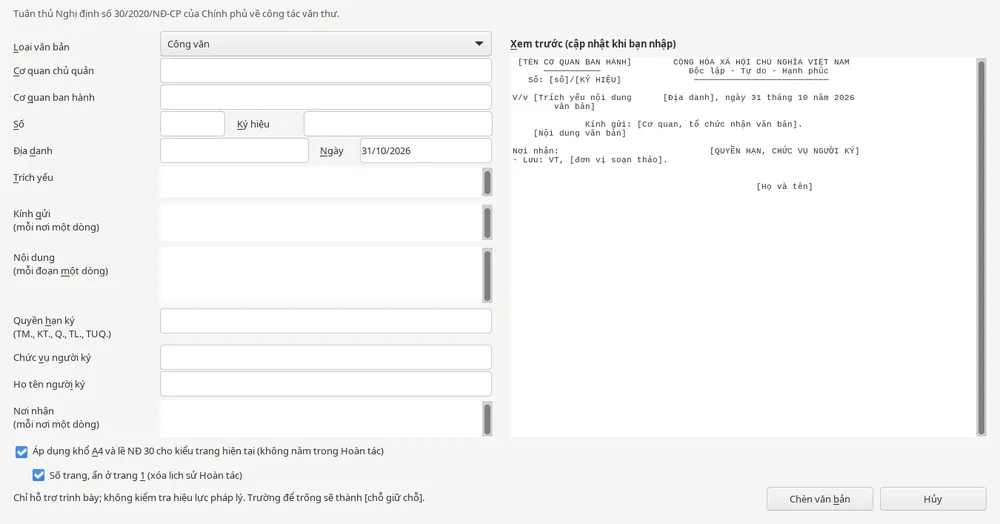
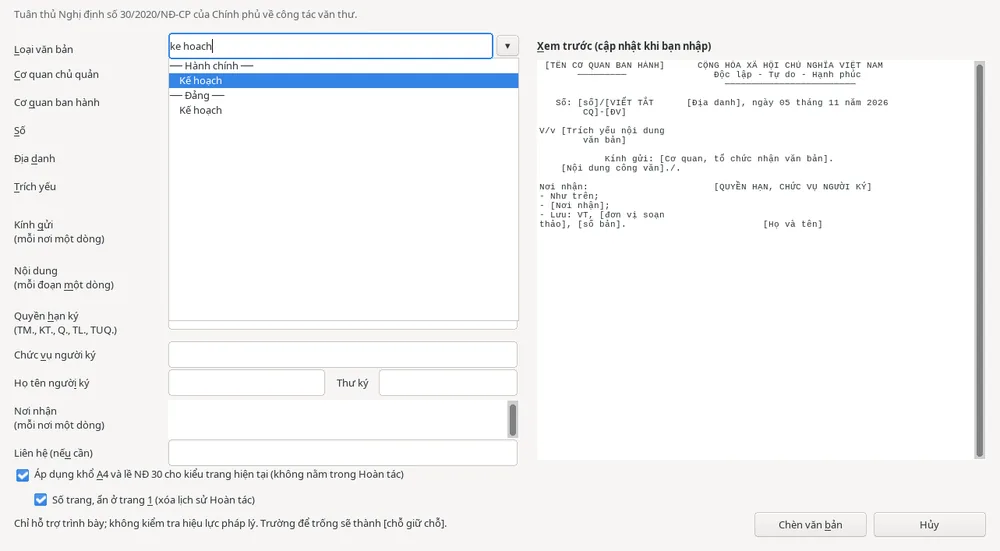
fix(website): sync the guide with the templates, shortcuts and macro changes

diff --git a/website/office.hasontech.vn/huong-dan/phim-tat/index.html b/website/office.hasontech.vn/huong-dan/phim-tat/index.html
@@ -55,7 +55,7 @@
    "description": "HST Office dùng phím tắt giống Microsoft Word, Excel và PowerPoint.",
    "inLanguage": "vi",
    "url": "https://office.hasontech.vn/huong-dan/phim-tat/",
-   "dateModified": "2026-11-04",
+   "dateModified": "2026-11-05",
    "about": {
     "@id": "https://office.hasontech.vn/#software"
    },
@@ -142,8 +142,8 @@
 <p class="lead">HST Office dùng phím tắt giống Microsoft Word, Excel và PowerPoint.</p>
 <div class="table-wrap"><table><caption>Dùng chung</caption><thead><tr><th scope="col">Thao tác</th><th scope="col">Phím tắt</th></tr></thead><tbody><tr><td>Tạo mới / Mở / Lưu</td><td><span class="keys"><kbd>Ctrl</kbd>+<kbd>N</kbd></span> · <span class="keys"><kbd>Ctrl</kbd>+<kbd>O</kbd></span> · <span class="keys"><kbd>Ctrl</kbd>+<kbd>S</kbd></span></td></tr><tr><td>Lưu thành (đổi tên, đổi định dạng)</td><td><span class="keys"><kbd>F12</kbd></span> · <span class="keys"><kbd>Ctrl</kbd>+<kbd>Shift</kbd>+<kbd>S</kbd></span></td></tr><tr><td>In</td><td><span class="keys"><kbd>Ctrl</kbd>+<kbd>P</kbd></span></td></tr><tr><td>Hoàn tác / Làm lại</td><td><span class="keys"><kbd>Ctrl</kbd>+<kbd>Z</kbd></span> · <span class="keys"><kbd>Ctrl</kbd>+<kbd>Y</kbd></span></td></tr><tr><td>Sao chép / Cắt / Dán</td><td><span class="keys"><kbd>Ctrl</kbd>+<kbd>C</kbd></span> · <span class="keys"><kbd>Ctrl</kbd>+<kbd>X</kbd></span> · <span class="keys"><kbd>Ctrl</kbd>+<kbd>V</kbd></span></td></tr><tr><td>Tìm / Tìm và thay thế</td><td><span class="keys"><kbd>Ctrl</kbd>+<kbd>F</kbd></span> · <span class="keys"><kbd>Ctrl</kbd>+<kbd>H</kbd></span></td></tr><tr><td>Kiểm tra chính tả</td><td><span class="keys"><kbd>F7</kbd></span></td></tr><tr><td><a href="/huong-dan/giao-dien/#tim-tinh-nang">Tìm tính năng</a> (gõ tên lệnh, không dấu cũng được)</td><td><span class="keys"><kbd>Shift</kbd>+<kbd>Esc</kbd></span></td></tr><tr><td><a href="/huong-dan/macro-vba/">Macro VBA</a>: mở trình soạn macro (HST Writer, HST Sheets)</td><td><span class="keys"><kbd>Alt</kbd>+<kbd>F11</kbd></span></td></tr><tr><td>Hộp thoại chạy, sửa, gán macro (HST Writer, HST Sheets)</td><td><span class="keys"><kbd>Alt</kbd>+<kbd>F8</kbd></span></td></tr><tr><td>Chuyển sang thẻ tài liệu sau / trước</td><td><span class="keys"><kbd>Ctrl</kbd>+<kbd>Alt</kbd>+<kbd>.</kbd></span> · <span class="keys"><kbd>Ctrl</kbd>+<kbd>Alt</kbd>+<kbd>,</kbd></span></td></tr><tr><td>Đóng thẻ tài liệu đang mở</td><td><span class="keys"><kbd>Ctrl</kbd>+<kbd>W</kbd></span></td></tr><tr><td>Mở hướng dẫn này</td><td><span class="keys"><kbd>F1</kbd></span></td></tr></tbody></table></div>
 <h2>HST Writer (giống Word)</h2>
-<div class="table-wrap"><table><caption>Phím tắt trong HST Writer</caption><thead><tr><th scope="col">Thao tác</th><th scope="col">Phím tắt</th></tr></thead><tbody><tr><td>Đậm / Nghiêng / Gạch dưới</td><td><span class="keys"><kbd>Ctrl</kbd>+<kbd>B</kbd></span> · <span class="keys"><kbd>Ctrl</kbd>+<kbd>I</kbd></span> · <span class="keys"><kbd>Ctrl</kbd>+<kbd>U</kbd></span></td></tr><tr><td>Gạch dưới kép</td><td><span class="keys"><kbd>Ctrl</kbd>+<kbd>Shift</kbd>+<kbd>D</kbd></span></td></tr><tr><td>Căn giữa / trái / phải / đều</td><td><span class="keys"><kbd>Ctrl</kbd>+<kbd>E</kbd></span> · <span class="keys"><kbd>Ctrl</kbd>+<kbd>L</kbd></span> · <span class="keys"><kbd>Ctrl</kbd>+<kbd>R</kbd></span> · <span class="keys"><kbd>Ctrl</kbd>+<kbd>J</kbd></span></td></tr><tr><td>Hộp thoại Ký tự (phông chữ)</td><td><span class="keys"><kbd>Ctrl</kbd>+<kbd>D</kbd></span></td></tr><tr><td>Tăng / giảm cỡ chữ</td><td><span class="keys"><kbd>Ctrl</kbd>+<kbd>Shift</kbd>+<kbd>&gt;</kbd></span> · <span class="keys"><kbd>Ctrl</kbd>+<kbd>Shift</kbd>+<kbd>&lt;</kbd></span> · <span class="keys"><kbd>Ctrl</kbd>+<kbd>]</kbd></span> · <span class="keys"><kbd>Ctrl</kbd>+<kbd>[</kbd></span></td></tr><tr><td>Chỉ số trên / chỉ số dưới</td><td><span class="keys"><kbd>Ctrl</kbd>+<kbd>Shift</kbd>+<kbd>=</kbd></span> · <span class="keys"><kbd>Ctrl</kbd>+<kbd>=</kbd></span></td></tr><tr><td>Giãn dòng đơn / đôi / 1,5</td><td><span class="keys"><kbd>Ctrl</kbd>+<kbd>1</kbd></span> · <span class="keys"><kbd>Ctrl</kbd>+<kbd>2</kbd></span> · <span class="keys"><kbd>Ctrl</kbd>+<kbd>5</kbd></span></td></tr><tr><td>Kiểu Tiêu đề 1 / 2 / 3</td><td><span class="keys"><kbd>Ctrl</kbd>+<kbd>Alt</kbd>+<kbd>1</kbd></span> · <span class="keys"><kbd>Ctrl</kbd>+<kbd>Alt</kbd>+<kbd>2</kbd></span> · <span class="keys"><kbd>Ctrl</kbd>+<kbd>Alt</kbd>+<kbd>3</kbd></span></td></tr><tr><td>Kiểu đoạn mặc định (Normal)</td><td><span class="keys"><kbd>Ctrl</kbd>+<kbd>Shift</kbd>+<kbd>N</kbd></span></td></tr><tr><td>Danh sách dấu đầu dòng</td><td><span class="keys"><kbd>Ctrl</kbd>+<kbd>Shift</kbd>+<kbd>L</kbd></span></td></tr><tr><td>Tăng / giảm thụt lề</td><td><span class="keys"><kbd>Ctrl</kbd>+<kbd>M</kbd></span> · <span class="keys"><kbd>Ctrl</kbd>+<kbd>Shift</kbd>+<kbd>M</kbd></span></td></tr><tr><td>Thụt lề treo</td><td><span class="keys"><kbd>Ctrl</kbd>+<kbd>T</kbd></span></td></tr><tr><td>Xóa định dạng trực tiếp</td><td><span class="keys"><kbd>Ctrl</kbd>+<kbd>Space</kbd></span></td></tr><tr><td>Lặp lại thao tác vừa làm</td><td><span class="keys"><kbd>F4</kbd></span></td></tr><tr><td>Đổi chữ hoa / thường</td><td><span class="keys"><kbd>Shift</kbd>+<kbd>F3</kbd></span></td></tr><tr><td>Dán văn bản không định dạng</td><td><span class="keys"><kbd>Ctrl</kbd>+<kbd>Shift</kbd>+<kbd>V</kbd></span></td></tr><tr><td>Dán đặc biệt</td><td><span class="keys"><kbd>Ctrl</kbd>+<kbd>Alt</kbd>+<kbd>V</kbd></span></td></tr><tr><td>Chèn siêu liên kết</td><td><span class="keys"><kbd>Ctrl</kbd>+<kbd>K</kbd></span></td></tr><tr><td>Đi tới trang</td><td><span class="keys"><kbd>Ctrl</kbd>+<kbd>G</kbd></span></td></tr><tr><td>Ngắt trang</td><td><span class="keys"><kbd>Ctrl</kbd>+<kbd>Enter</kbd></span></td></tr><tr><td>Chèn trường ngày / giờ</td><td><span class="keys"><kbd>Alt</kbd>+<kbd>Shift</kbd>+<kbd>D</kbd></span> · <span class="keys"><kbd>Alt</kbd>+<kbd>Shift</kbd>+<kbd>T</kbd></span></td></tr></tbody></table></div>
-<div class="note">Chưa có: sao chép / dán riêng định dạng và <span class="keys"><kbd>Ctrl</kbd>+<kbd>Q</kbd></span> xóa định dạng đoạn. Hãy dùng <span class="menu">Sao chép định dạng</span> ở thẻ <span class="menu">Trang đầu</span>. Trong HST Office, <span class="keys"><kbd>Ctrl</kbd>+<kbd>Q</kbd></span> là thoát.</div>
+<div class="table-wrap"><table><caption>Phím tắt trong HST Writer</caption><thead><tr><th scope="col">Thao tác</th><th scope="col">Phím tắt</th></tr></thead><tbody><tr><td>Đậm / Nghiêng / Gạch dưới</td><td><span class="keys"><kbd>Ctrl</kbd>+<kbd>B</kbd></span> · <span class="keys"><kbd>Ctrl</kbd>+<kbd>I</kbd></span> · <span class="keys"><kbd>Ctrl</kbd>+<kbd>U</kbd></span></td></tr><tr><td>Gạch dưới kép</td><td><span class="keys"><kbd>Ctrl</kbd>+<kbd>Shift</kbd>+<kbd>D</kbd></span></td></tr><tr><td>Căn giữa / trái / phải / đều</td><td><span class="keys"><kbd>Ctrl</kbd>+<kbd>E</kbd></span> · <span class="keys"><kbd>Ctrl</kbd>+<kbd>L</kbd></span> · <span class="keys"><kbd>Ctrl</kbd>+<kbd>R</kbd></span> · <span class="keys"><kbd>Ctrl</kbd>+<kbd>J</kbd></span></td></tr><tr><td>Hộp thoại Ký tự (phông chữ)</td><td><span class="keys"><kbd>Ctrl</kbd>+<kbd>D</kbd></span></td></tr><tr><td>Tăng / giảm cỡ chữ</td><td><span class="keys"><kbd>Ctrl</kbd>+<kbd>Shift</kbd>+<kbd>&gt;</kbd></span> · <span class="keys"><kbd>Ctrl</kbd>+<kbd>Shift</kbd>+<kbd>&lt;</kbd></span> · <span class="keys"><kbd>Ctrl</kbd>+<kbd>]</kbd></span> · <span class="keys"><kbd>Ctrl</kbd>+<kbd>[</kbd></span></td></tr><tr><td>Chỉ số trên / chỉ số dưới</td><td><span class="keys"><kbd>Ctrl</kbd>+<kbd>Shift</kbd>+<kbd>=</kbd></span> · <span class="keys"><kbd>Ctrl</kbd>+<kbd>=</kbd></span></td></tr><tr><td>Giãn dòng đơn / đôi / 1,5</td><td><span class="keys"><kbd>Ctrl</kbd>+<kbd>1</kbd></span> · <span class="keys"><kbd>Ctrl</kbd>+<kbd>2</kbd></span> · <span class="keys"><kbd>Ctrl</kbd>+<kbd>5</kbd></span></td></tr><tr><td>Kiểu Tiêu đề 1 / 2 / 3</td><td><span class="keys"><kbd>Ctrl</kbd>+<kbd>Alt</kbd>+<kbd>1</kbd></span> · <span class="keys"><kbd>Ctrl</kbd>+<kbd>Alt</kbd>+<kbd>2</kbd></span> · <span class="keys"><kbd>Ctrl</kbd>+<kbd>Alt</kbd>+<kbd>3</kbd></span></td></tr><tr><td>Kiểu đoạn mặc định (Normal)</td><td><span class="keys"><kbd>Ctrl</kbd>+<kbd>Shift</kbd>+<kbd>N</kbd></span></td></tr><tr><td>Danh sách dấu đầu dòng</td><td><span class="keys"><kbd>Ctrl</kbd>+<kbd>Shift</kbd>+<kbd>L</kbd></span></td></tr><tr><td>Tăng / giảm thụt lề</td><td><span class="keys"><kbd>Ctrl</kbd>+<kbd>M</kbd></span> · <span class="keys"><kbd>Ctrl</kbd>+<kbd>Shift</kbd>+<kbd>M</kbd></span></td></tr><tr><td>Thụt lề treo</td><td><span class="keys"><kbd>Ctrl</kbd>+<kbd>T</kbd></span></td></tr><tr><td>Xóa định dạng trực tiếp</td><td><span class="keys"><kbd>Ctrl</kbd>+<kbd>Space</kbd></span></td></tr><tr><td>Lặp lại thao tác vừa làm</td><td><span class="keys"><kbd>F4</kbd></span></td></tr><tr><td>Đổi chữ hoa / thường</td><td><span class="keys"><kbd>Shift</kbd>+<kbd>F3</kbd></span></td></tr><tr><td>Dán văn bản không định dạng</td><td><span class="keys"><kbd>Ctrl</kbd>+<kbd>Shift</kbd>+<kbd>V</kbd></span></td></tr><tr><td>Dán đặc biệt</td><td><span class="keys"><kbd>Ctrl</kbd>+<kbd>Alt</kbd>+<kbd>Shift</kbd>+<kbd>V</kbd></span></td></tr><tr><td>Sao chép / dán định dạng (ký tự và đoạn)</td><td><span class="keys"><kbd>Ctrl</kbd>+<kbd>Alt</kbd>+<kbd>C</kbd></span> · <span class="keys"><kbd>Ctrl</kbd>+<kbd>Alt</kbd>+<kbd>V</kbd></span></td></tr><tr><td>Xóa định dạng đoạn (giữ định dạng ký tự)</td><td><span class="keys"><kbd>Ctrl</kbd>+<kbd>Q</kbd></span></td></tr><tr><td>Chèn chú thích</td><td><span class="keys"><kbd>Ctrl</kbd>+<kbd>Alt</kbd>+<kbd>M</kbd></span></td></tr><tr><td>Chèn siêu liên kết</td><td><span class="keys"><kbd>Ctrl</kbd>+<kbd>K</kbd></span></td></tr><tr><td>Đi tới trang</td><td><span class="keys"><kbd>Ctrl</kbd>+<kbd>G</kbd></span></td></tr><tr><td>Ngắt trang</td><td><span class="keys"><kbd>Ctrl</kbd>+<kbd>Enter</kbd></span></td></tr><tr><td>Chèn trường ngày / giờ</td><td><span class="keys"><kbd>Alt</kbd>+<kbd>Shift</kbd>+<kbd>D</kbd></span> · <span class="keys"><kbd>Alt</kbd>+<kbd>Shift</kbd>+<kbd>T</kbd></span></td></tr></tbody></table></div>
+<div class="note">Trong HST Writer, <span class="keys"><kbd>Ctrl</kbd>+<kbd>Q</kbd></span> xóa định dạng đoạn như Word nên không còn thoát ứng dụng: hãy dùng <span class="keys"><kbd>Alt</kbd>+<kbd>F4</kbd></span> hoặc <span class="menu">Tập tin → Thoát</span>. Trong HST Sheets và HST Slides, <span class="keys"><kbd>Ctrl</kbd>+<kbd>Q</kbd></span> vẫn là thoát. Trên macOS: <span class="keys"><kbd>Cmd</kbd>+<kbd>Q</kbd></span> luôn là thoát; sao chép / dán định dạng là <span class="keys"><kbd>Cmd</kbd>+<kbd>Option</kbd>+<kbd>C</kbd></span> / <span class="keys"><kbd>Cmd</kbd>+<kbd>Option</kbd>+<kbd>V</kbd></span>, chèn chú thích <span class="keys"><kbd>Cmd</kbd>+<kbd>Option</kbd>+<kbd>A</kbd></span>, dán đặc biệt <span class="keys"><kbd>Cmd</kbd>+<kbd>Control</kbd>+<kbd>V</kbd></span>.</div>
 <h2>HST Sheets (giống Excel)</h2>
 <div class="table-wrap"><table><caption>Phím tắt trong HST Sheets</caption><thead><tr><th scope="col">Thao tác</th><th scope="col">Phím tắt</th></tr></thead><tbody><tr><td>Sửa ô đang chọn</td><td><span class="keys"><kbd>F2</kbd></span></td></tr><tr><td>Đổi tham chiếu tuyệt đối / tương đối khi sửa công thức</td><td><span class="keys"><kbd>F4</kbd></span></td></tr><tr><td>Xuống dòng trong ô</td><td><span class="keys"><kbd>Alt</kbd>+<kbd>Enter</kbd></span></td></tr><tr><td>Điền nội dung vừa nhập vào các ô đã chọn</td><td><span class="keys"><kbd>Ctrl</kbd>+<kbd>Enter</kbd></span></td></tr><tr><td>Tính tổng tự động</td><td><span class="keys"><kbd>Alt</kbd>+<kbd>=</kbd></span></td></tr><tr><td>Định dạng ô</td><td><span class="keys"><kbd>Ctrl</kbd>+<kbd>1</kbd></span></td></tr><tr><td>Ngày hiện tại / giờ hiện tại</td><td><span class="keys"><kbd>Ctrl</kbd>+<kbd>;</kbd></span> · <span class="keys"><kbd>Ctrl</kbd>+<kbd>Shift</kbd>+<kbd>;</kbd></span></td></tr><tr><td>Bật/tắt lọc</td><td><span class="keys"><kbd>Ctrl</kbd>+<kbd>Shift</kbd>+<kbd>L</kbd></span></td></tr><tr><td>Tạo bảng</td><td><span class="keys"><kbd>Ctrl</kbd>+<kbd>T</kbd></span></td></tr><tr><td>Điền xuống / điền sang phải</td><td><span class="keys"><kbd>Ctrl</kbd>+<kbd>D</kbd></span> · <span class="keys"><kbd>Ctrl</kbd>+<kbd>R</kbd></span></td></tr><tr><td>Định dạng Số / Tiền tệ / Phần trăm</td><td><span class="keys"><kbd>Ctrl</kbd>+<kbd>Shift</kbd>+<kbd>!</kbd></span> · <span class="keys"><kbd>Ctrl</kbd>+<kbd>Shift</kbd>+<kbd>$</kbd></span> · <span class="keys"><kbd>Ctrl</kbd>+<kbd>Shift</kbd>+<kbd>%</kbd></span></td></tr><tr><td>Định dạng Ngày / Giờ / Khoa học / Chung</td><td><span class="keys"><kbd>Ctrl</kbd>+<kbd>Shift</kbd>+<kbd>#</kbd></span> · <span class="keys"><kbd>Ctrl</kbd>+<kbd>Shift</kbd>+<kbd>@</kbd></span> · <span class="keys"><kbd>Ctrl</kbd>+<kbd>Shift</kbd>+<kbd>^</kbd></span> · <span class="keys"><kbd>Ctrl</kbd>+<kbd>Shift</kbd>+<kbd>~</kbd></span></td></tr><tr><td>Chọn cả cột / cả hàng</td><td><span class="keys"><kbd>Ctrl</kbd>+<kbd>Space</kbd></span> · <span class="keys"><kbd>Shift</kbd>+<kbd>Space</kbd></span></td></tr><tr><td>Xóa ô / chèn ô</td><td><span class="keys"><kbd>Ctrl</kbd>+<kbd>-</kbd></span> · <span class="keys"><kbd>Ctrl</kbd>+<kbd>Shift</kbd>+<kbd>+</kbd></span></td></tr><tr><td>Trang tính trước / sau</td><td><span class="keys"><kbd>Ctrl</kbd>+<kbd>PgUp</kbd></span> · <span class="keys"><kbd>Ctrl</kbd>+<kbd>PgDn</kbd></span></td></tr><tr><td>Chèn trang tính mới (ở cuối)</td><td><span class="keys"><kbd>Shift</kbd>+<kbd>F11</kbd></span></td></tr><tr><td>Chọn đến ô có dữ liệu cuối theo hướng mũi tên</td><td><span class="keys"><kbd>Ctrl</kbd>+<kbd>Shift</kbd>+<kbd>Mũi tên</kbd></span></td></tr><tr><td>Tính lại</td><td><span class="keys"><kbd>F9</kbd></span></td></tr></tbody></table></div>
 <h2>HST Slides (giống PowerPoint)</h2>

diff --git a/website/office.hasontech.vn/huong-dan/macro-vba/index.html b/website/office.hasontech.vn/huong-dan/macro-vba/index.html
@@ -55,7 +55,7 @@
    "description": "Viết và sửa macro VBA trong HST Sheets và HST Writer như trong Excel và Word: Range, Cells, ActiveSheet, ActiveDocument, MsgBox… Phần lớn mã VBA thông…",
    "inLanguage": "vi",
    "url": "https://office.hasontech.vn/huong-dan/macro-vba/",
-   "dateModified": "2026-11-04",
+   "dateModified": "2026-11-05",
    "about": {
     "@id": "https://office.hasontech.vn/#software"
    },
@@ -181,17 +181,18 @@ End Sub</code></pre>
   <li>Kéo nút, ô nhập từ hộp công cụ vào biểu mẫu. Viết mã sự kiện trong mô-đun <code>UserForm1</code>, ví dụ <code>Private Sub CommandButton1_Click()</code>.</li>
   <li>Hiện biểu mẫu từ một macro: <code>UserForm1.Show</code>.</li>
 </ol>
-<div class="note warn"><strong>Lưu ý:</strong> UserForm được giữ khi lưu dạng <code>.ods</code>/<code>.odt</code>. Khi lưu <code>.xlsm</code>/<code>.xls</code>, biểu mẫu chưa được ghi vào tệp Excel; HST Office sẽ nhắc bạn lưu thêm một bản <code>.ods</code>.</div>
+<div class="note warn"><strong>Lưu ý:</strong> UserForm dùng được trong HST Office và được giữ khi lưu <code>.ods</code>/<code>.odt</code>. Khi lưu <code>.xlsm</code>, <code>.xls</code>, <code>.docm</code>, <code>.doc</code>, biểu mẫu được ghi vào tệp nhưng <strong>chưa dùng được chắc chắn trong Microsoft Excel/Word</strong>: HST Office sẽ nhắc khi lưu. Hãy giữ thêm một bản <code>.ods</code>/<code>.odt</code>.</div>
 <h2 id="luu-tep">Lưu tệp để giữ macro</h2>
 <div class="table-wrap"><table><caption>Định dạng tệp và macro</caption><thead><tr><th scope="col">Lưu dạng</th><th scope="col">Macro</th></tr></thead><tbody>
 <tr><td><code>.xlsm</code> (Excel có macro)</td><td>Giữ macro, kể cả macro viết mới hoặc vừa sửa trong HST Sheets. Sự kiện <code>Workbook_Open</code>, <code>Worksheet_Change</code> vẫn chạy sau khi lưu.</td></tr>
-<tr><td><code>.docm</code> (Word có macro)</td><td>Giữ macro viết mới hoặc vừa sửa trong HST Writer. Tệp Word có UserForm: giữ nguyên dự án gốc, phần sửa không được lưu (hãy lưu thêm một bản <code>.odt</code>).</td></tr>
+<tr><td><code>.docm</code> (Word có macro)</td><td>Tệp tạo bằng Word giữ nguyên macro gốc. Nếu bạn sửa macro trong HST Writer, HST Office hỏi trước khi lưu vì phần sửa không được lưu vào tệp Word; hãy lưu bản <code>.odt</code> để giữ. Macro viết mới trong HST: chưa kiểm chứng trên Word.</td></tr>
 <tr><td><code>.ods</code>, <code>.odt</code></td><td>Giữ macro.</td></tr>
-<tr><td><code>.xls</code></td><td>Giữ macro.</td></tr>
-<tr><td><code>.doc</code></td><td>Giữ macro, kể cả macro viết mới hoặc vừa sửa (tệp Word có UserForm: giữ dự án gốc).</td></tr>
+<tr><td><code>.xls</code></td><td>Giữ macro và UserForm.</td></tr>
+<tr><td><code>.doc</code></td><td>Giống <code>.docm</code>: tệp tạo bằng Word giữ nguyên macro gốc; macro viết mới trong HST chưa kiểm chứng trên Word.</td></tr>
 <tr><td><code>.xlsx</code>, <code>.docx</code></td><td>Không có macro (giống Excel và Word).</td></tr>
 </tbody></table></div>
-<div class="note"><strong>Chữ tiếng Việt trong mã:</strong> HST Office lưu mã VBA bằng bảng mã tiếng Việt (Windows-1258) khi cần, nên chú thích và chuỗi có dấu được giữ nguyên, kể cả trong tệp tạo bằng Excel/Word bản tiếng Anh. Excel/Word trên máy không dùng tiếng Việt có thể hiển thị các chữ này không đúng trong trình soạn của chúng.</div>
+<p>Tài liệu có macro: hộp <span class="menu">Lưu thành</span> tự đề xuất định dạng giữ được macro. Mã VBA trong HST Writer và HST Sheets: <code>.docm</code>, <code>.xlsm</code>. Macro Basic thường và macro viết trong HST Slides: <code>.odt</code>, <code>.ods</code>, <code>.odp</code>, vì tệp Office chỉ lưu dự án VBA. Nếu vẫn lưu vào định dạng không giữ được macro (ví dụ <code>.docx</code>), HST Office hỏi trước: <span class="menu">Lưu không có macro</span> hoặc <span class="menu">Chọn định dạng khác</span>.</p>
+<div class="note"><strong>Chữ tiếng Việt trong mã:</strong> HST Office lưu mã VBA bằng bảng mã tiếng Việt (Windows-1258) khi cần, nên chú thích và chuỗi có dấu được giữ nguyên trong HST Office. Trình soạn VBA của Excel/Word hiển thị mã theo <em>ngôn ngữ cho chương trình không dùng Unicode</em> của Windows: trên máy không đặt tiếng Việt, chữ có dấu trong mã và tiêu đề biểu mẫu có thể bị sai. Đây là giới hạn của Office, không phải của tệp. Trên các máy đó, hãy dùng chữ không dấu trong mã hoặc dùng <code>ChrW()</code>.</div>
 <h2 id="bao-mat">Hỏi trước khi chạy macro trong tệp</h2>
 <p>Macro có thể chứa mã độc. Khi mở một tệp có macro (<code>.xlsm</code>, <code>.docm</code>…), HST Office luôn hỏi trước khi chạy:</p>
 <figure><picture><source type="image/webp" srcset="/huong-dan/images/macro-vba-security.webp?v=11947de8"><img decoding="async" src="/huong-dan/images/macro-vba-security.png?v=11947de8" alt="Hộp thoại bảo mật: Tài liệu chứa macro tài liệu, với các nút Trợ giúp, Tắt macro và Bật macro." loading="lazy" width="680" height="190"></picture><figcaption>Chỉ bấm <span class="menu">Bật macro</span> khi bạn tin người gửi tệp.</figcaption></figure>
@@ -219,7 +220,7 @@ End Sub</code></pre>
 <tr><td><code>Scripting.Dictionary</code> (<code>CreateObject</code>, <code>New Dictionary</code>): <code>Add</code>, <code>d(khóa) = giá trị</code>, <code>Exists</code>, <code>Remove</code>, <code>Keys</code>, <code>Items</code>, <code>For Each</code>, <code>CompareMode = vbTextCompare</code> (khóa tiếng Việt không phân biệt hoa thường), lỗi 457 khi thêm trùng khóa</td><td>Chạy được</td></tr>
 <tr><td>Đối tượng COM khác của Windows (<code>Excel.Application</code>, <code>ADODB</code>…)</td><td>Hạn chế</td></tr>
 <tr><td>UserForm soạn mới trong trình soạn (<code>UserForm1.Show</code>, <code>Unload</code>, sự kiện nút bấm)</td><td>Chạy được</td></tr>
-<tr><td>Lưu UserForm vào <code>.xlsm</code>/<code>.xls</code> (giữ được trong <code>.ods</code>)</td><td>Hạn chế</td></tr>
+<tr><td>Lưu UserForm vào <code>.xlsm</code>/<code>.xls</code></td><td>Hạn chế: chưa kiểm chứng trên Excel</td></tr>
 </tbody></table></div>
 <h3>HST Writer (mã Word): 28/28 trường hợp chạy được</h3>
 <div class="table-wrap"><table><caption>Mã VBA của Word trong HST Writer</caption><thead><tr><th scope="col">Mã VBA</th><th scope="col">Kết quả</th></tr></thead><tbody>
@@ -233,10 +234,11 @@ End Sub</code></pre>
 <tr><td><code>Sections(1).Headers(wdHeaderFooterPrimary)</code>, <code>ListFormat.ApplyBulletDefault</code></td><td>Chạy được</td></tr>
 <tr><td><code>Font.Bold</code>, <code>Font.Size</code>, <code>BuiltInDocumentProperties</code>, <code>MsgBox</code></td><td>Chạy được</td></tr>
 <tr><td><code>Scripting.Dictionary</code> trong macro của Writer (đếm từ, khóa tiếng Việt)</td><td>Chạy được</td></tr>
-<tr><td>Sự kiện <code>Document_Open</code> khi mở tệp <code>.docm</code> hoặc <code>.odt</code> đã lưu bằng HST</td><td>Chạy được</td></tr>
+<tr><td>Sự kiện <code>Document_Open</code> khi mở tệp <code>.odt</code> đã lưu bằng HST</td><td>Chạy được</td></tr>
 <tr><td><code>InlineShapes.AddPicture</code>, <code>Width</code>/<code>Height</code>, <code>LockAspectRatio</code>; <code>Comments.Add</code>, <code>Comments(n).Range</code>, <code>Scope</code>, <code>Author</code></td><td>Chạy được</td></tr>
 <tr><td><code>Fields.Add</code> (trang <code>PAGE</code>, tổng số trang <code>NUMPAGES</code>, ngày <code>DATE</code>, giờ <code>TIME</code>), <code>Fields.Update</code> (cập nhật cả mục lục)</td><td>Chạy được</td></tr>
 <tr><td>UserForm soạn mới trong trình soạn (<code>UserForm1.Show</code>, <code>Unload</code>, sự kiện nút bấm)</td><td>Chạy được</td></tr>
+<tr><td>Lưu UserForm vào <code>.docm</code>/<code>.doc</code></td><td>Hạn chế: chưa kiểm chứng trên Word</td></tr>
 </tbody></table></div>
 <div class="note warn"><strong>Chưa hỗ trợ:</strong> các đối tượng COM của Windows ngoài <code>Scripting.Dictionary</code>; Với tệp quan trọng, hãy giữ một bản gốc trước khi lưu đè.</div>
 </article>

diff --git a/website/office.hasontech.vn/huong-dan/nd30/index.html b/website/office.hasontech.vn/huong-dan/nd30/index.html
@@ -55,7 +55,7 @@
    "description": "Công cụ HST → Văn bản hành chính… hỗ trợ trình bày văn bản theo Nghị định 30/2020/NĐ-CP.",
    "inLanguage": "vi",
    "url": "https://office.hasontech.vn/huong-dan/nd30/",
-   "dateModified": "2026-11-04",
+   "dateModified": "2026-11-05",
    "about": {
     "@id": "https://office.hasontech.vn/#software"
    },
@@ -153,21 +153,30 @@
 <ol>
   <li>Trong HST Writer, đặt con trỏ tại vị trí muốn chèn văn bản.</li>
   <li>Bấm nút <span class="menu">Văn bản hành chính</span> trên thẻ <span class="menu">Trang đầu</span> (hoặc chọn <span class="menu">HST → Văn bản hành chính…</span>). Hộp thoại luôn hiển thị bằng tiếng Việt, kể cả khi ngôn ngữ giao diện là tiếng Anh.</li>
-  <li>Chọn <span class="menu">Loại văn bản</span>: <span class="menu">Công văn</span>, <span class="menu">Thông báo</span>, <span class="menu">Quyết định</span>, <span class="menu">Tờ trình</span>, <span class="menu">Báo cáo</span>, <span class="menu">Giấy mời</span> hoặc <span class="menu">Biên bản</span>.</li>
+  <li>Ở ô <span class="menu">Loại văn bản</span>, gõ để tìm, không cần dấu: <code>cong van</code>, <code>ke hoach</code>, <code>gm</code>, <code>ttr</code>. Danh sách lọc ngay và chia nhóm <span class="menu">Hành chính</span>, <span class="menu">Quy phạm pháp luật</span>, <span class="menu">Đảng</span>, <span class="menu">Biểu mẫu văn thư</span>. Dùng phím mũi tên để chọn, <span class="keys"><kbd>Enter</kbd></span> để nhận, <span class="keys"><kbd>Esc</kbd></span> để đóng danh sách.</li>
   <li>Điền <span class="menu">Cơ quan chủ quản</span>, <span class="menu">Cơ quan ban hành</span>, <span class="menu">Số</span> và <span class="menu">Ký hiệu</span>. Ví dụ, số <code>5</code> và ký hiệu <code>UBND-VP</code> được trình bày thành <code>Số: 05/UBND-VP</code>.</li>
   <li>Điền <span class="menu">Địa danh</span> và kiểm tra <span class="menu">Ngày</span>. Ngày được điền sẵn theo ngày hiện tại, ở dạng <code>dd/mm/yyyy</code>.</li>
   <li>Điền <span class="menu">Trích yếu</span>, <span class="menu">Kính gửi (mỗi nơi một dòng)</span> và <span class="menu">Nội dung (mỗi đoạn một dòng)</span>.</li>
   <li>Điền <span class="menu">Quyền hạn ký</span> (TM., KT., Q., TL., TUQ.), <span class="menu">Chức vụ người ký</span> và <span class="menu">Họ tên người ký</span>.</li>
   <li>Điền <span class="menu">Nơi nhận (mỗi nơi một dòng)</span>. Dòng “Lưu: VT, …” được thêm nếu thiếu.</li>
 </ol>
-<figure><picture><source type="image/webp" srcset="/huong-dan/images/nd30-wizard.webp?v=51ef1258"><img decoding="async" src="/huong-dan/images/nd30-wizard.png?v=51ef1258" alt="Hộp thoại Văn bản hành chính có các trường thông tin bên trái, bản xem trước công văn bên phải và nút Chèn văn bản phía dưới." loading="lazy" width="1000" height="524"></picture><figcaption>Khung <span class="menu">Xem trước (cập nhật khi bạn nhập)</span> phản ánh thông tin bạn đang điền.</figcaption></figure>
+<figure><picture><source type="image/webp" srcset="/huong-dan/images/nd30-wizard.webp?v=5bf62086"><img decoding="async" src="/huong-dan/images/nd30-wizard.png?v=5bf62086" alt="Hộp thoại Văn bản hành chính: ô Loại văn bản đang tìm ke hoach, danh sách lọc còn Kế hoạch ở nhóm Hành chính và Đảng; bên phải là bản xem trước, phía dưới là nút Chèn văn bản." loading="lazy" width="1000" height="551"></picture><figcaption>Khung <span class="menu">Xem trước (cập nhật khi bạn nhập)</span> phản ánh thông tin bạn đang điền.</figcaption></figure>
+<h2 id="loai-van-ban">Các loại văn bản</h2>
+<ul>
+  <li><strong>Hành chính</strong>: đủ 29 loại theo Điều 7 Nghị định 30/2020/NĐ-CP, phụ lục và bản sao. <span class="menu">Hợp đồng</span>, <span class="menu">Bản ghi nhớ</span>, <span class="menu">Bản thỏa thuận</span> và <span class="menu">Thư công</span> không có mẫu riêng trong Phụ lục III của Nghị định; bố cục theo thể thức chung, không mang số mẫu.</li>
+  <li><strong>Sao y, Sao lục, Trích sao</strong>: mở văn bản cần sao rồi chọn hình thức sao; khối sao được chèn ở cuối văn bản, dưới đường kẻ ngang hết vùng chữ. <span class="menu">Bản sao sang định dạng điện tử</span> thêm dòng thông tin ký số ở đầu trang.</li>
+  <li><strong>Quy phạm pháp luật</strong>: Thông tư mẫu 14 và 15 theo Nghị định 78/2025/NĐ-CP được sửa đổi bởi Nghị định 187/2025/NĐ-CP; số có năm ban hành, ví dụ <code>05/2026/TT-BNV</code>. Dòng <code>Phụ lục I</code> trong nội dung sang trang mới và đánh số trang riêng.</li>
+  <li><strong>Đảng</strong>: thể thức riêng theo Quy định 399-QĐ/TW và Hướng dẫn 05-HD/VPTW năm 2026; ô <span class="menu">Ký hiệu</span> nhập chữ viết tắt cơ quan, ví dụ <code>TU</code> cho <code>Số 05-QĐ/TU</code>.</li>
+  <li><strong>Biểu mẫu văn thư</strong>: theo Phụ lục IV, V Nghị định 30. Các sổ mở thành bảng tính mới bằng nút <span class="menu">Mở bảng tính</span>. Cỡ phong bì do HST chọn vì Nghị định không quy định.</li>
+</ul>
+<p>Mọi loại đều có sẵn dạng mẫu tại <span class="menu">Tập tin → Mẫu</span>.</p>
 <h2>Xem trước và xử lý thông báo</h2>
 <p>Khung <span class="menu">Xem trước (cập nhật khi bạn nhập)</span> hiển thị phần đầu văn bản, trích yếu, nội dung, nơi nhận và chữ ký.</p>
 <p>Nếu có lỗi, thông báo <span class="menu">Vui lòng sửa: …</span> xuất hiện màu đỏ dưới bản xem trước. Nút <span class="menu">Chèn văn bản</span> chỉ dùng được sau khi sửa lỗi.</p>
 <p>Trường để trống sẽ hiện chỗ giữ chỗ trong ngoặc vuông, chẳng hạn <code>[Họ và tên]</code>, để bạn điền sau.</p>
 <h2 id="tuy-chon-trang">Chọn khổ giấy, lề và số trang</h2>
 <ul>
-  <li><span class="menu">Áp dụng khổ A4 và lề NĐ 30 cho kiểu trang hiện tại (không nằm trong Hoàn tác)</span>: đặt khổ A4, lề trên 20 mm, dưới 20 mm, trái 30 mm và phải 15 mm.</li>
+  <li><span class="menu">Áp dụng khổ A4 và lề theo thể thức của loại văn bản cho kiểu trang hiện tại (không nằm trong Hoàn tác)</span>: đặt khổ A4, lề trên 20 mm, dưới 20 mm, trái 30 mm và phải 15 mm; bộ số này hợp với cả ba thể thức. Thân trang bắt đầu đúng 20 mm ở mọi trang. Khối sao không đổi lề của văn bản đang mở.</li>
   <li><span class="menu">Số trang, ẩn ở trang 1 (xóa lịch sử Hoàn tác)</span>: đánh số ở giữa phía trên và không hiển thị số trên trang đầu.</li>
 </ul>
 <div class="note warn"><strong>Chú ý trước khi chọn:</strong> Thay đổi khổ giấy và lề không nằm trong <span class="menu">Hoàn tác</span>. Tùy chọn số trang xóa lịch sử <span class="menu">Hoàn tác</span>. Hãy cân nhắc các tùy chọn này trước khi chèn.</div>

diff --git a/website/office.hasontech.vn/huong-dan/giao-dien/index.html b/website/office.hasontech.vn/huong-dan/giao-dien/index.html
@@ -55,7 +55,7 @@
    "description": "Giao diện Theo thẻ được bật sẵn. Các lệnh được xếp thành nhóm trên các thẻ ở phía trên cửa sổ.",
    "inLanguage": "vi",
    "url": "https://office.hasontech.vn/huong-dan/giao-dien/",
-   "dateModified": "2026-11-04",
+   "dateModified": "2026-11-05",
    "about": {
     "@id": "https://office.hasontech.vn/#software"
    },
@@ -140,18 +140,34 @@
   <p class="eyebrow">Bắt đầu</p>
   <h1>Giao diện theo thẻ</h1>
 <p class="lead">Giao diện <span class="menu">Theo thẻ</span> được bật sẵn. Các lệnh được xếp thành nhóm trên các thẻ ở phía trên cửa sổ.</p>
-<figure><picture><source type="image/webp" srcset="/huong-dan/images/writer-home.webp?v=1a98be83"><img decoding="async" src="/huong-dan/images/writer-home.png?v=1a98be83" alt="HST Writer mở thẻ Trang đầu, với các nhóm Phông, Đoạn văn và dãy biểu tượng Thanh bên ở bên phải." loading="lazy" width="1000" height="626"></picture><figcaption>Thẻ <span class="menu">Trang đầu</span> trong HST Writer; <span class="menu">Thanh bên</span> nằm ở cạnh phải.</figcaption></figure>
+<figure><picture><source type="image/webp" srcset="/huong-dan/images/writer-home.webp?v=1a98be83"><img decoding="async" src="/huong-dan/images/writer-home.png?v=1a98be83" alt="HST Writer mở thẻ Trang đầu, với các nhóm Phông chữ, Đoạn văn và dãy biểu tượng Thanh bên ở bên phải." loading="lazy" width="1000" height="626"></picture><figcaption>Thẻ <span class="menu">Trang đầu</span> trong HST Writer; <span class="menu">Thanh bên</span> nằm ở cạnh phải.</figcaption></figure>
 <h2>Tìm lệnh theo công việc</h2>
 <ul>
   <li><span class="menu">Tập tin</span>: tạo, mở, lưu, in và xuất PDF.</li>
   <li><span class="menu">Trang đầu</span>: định dạng chữ và đoạn văn; trong bảng tính có nút <span class="menu">Tổng</span>.</li>
   <li><span class="menu">Chèn</span>: thêm bảng, ảnh và nội dung khác vào tài liệu.</li>
-  <li><span class="menu">Bố trí</span> trong HST Writer: khổ giấy và lề trang.</li>
+  <li><span class="menu">Thiết kế</span> trong HST Writer: chủ đề, hình mờ, nền trang. Trong HST Slides: chủ đề, kích cỡ và nền trang chiếu.</li>
+  <li><span class="menu">Bố cục</span> trong HST Writer: khổ giấy, lề trang, ngắt trang.</li>
+  <li><span class="menu">Tham khảo</span> trong HST Writer: mục lục, cước chú, trích dẫn. <span class="menu">Gửi thư</span>: trộn thư.</li>
+  <li><span class="menu">Bố trí Trang</span> và <span class="menu">Công thức</span> trong HST Sheets: thiết lập trang, vùng in; thư viện hàm, tên đã xác định, kiểm nghiệm công thức.</li>
+  <li><span class="menu">Chuyển tiếp</span>, <span class="menu">Hoạt hình</span> và <span class="menu">Trình chiếu</span> trong HST Slides: mở bảng bên để đặt hiệu ứng; bắt đầu và thiết lập trình chiếu.</li>
   <li><span class="menu">Xem lại</span>: có lệnh <span class="menu">Theo dõi thay đổi</span>.</li>
   <li><span class="menu">Xem</span>: có lệnh <span class="menu">Giao diện người dùng…</span>.</li>
   <li><span class="menu">Dữ liệu</span> trong HST Sheets: sắp xếp và lọc dữ liệu.</li>
   <li><span class="menu">Phần mở rộng</span>: tìm các công cụ riêng của HST.</li>
+  <li><span class="menu">Nhà phát triển</span>: macro, VBA và Tùy chọn.</li>
 </ul>
+<p>Thẻ và nhóm xếp theo thứ tự của Word, Excel và PowerPoint. Lệnh ít dùng không mất đi mà chuyển sang thẻ khác; không nhớ ở đâu thì dùng <span class="menu">Tìm tính năng…</span>.</p>
+<h2 id="trang-tap-tin">Trang Tập tin</h2>
+<p>Bấm thẻ <span class="menu">Tập tin</span> trên dải lệnh hoặc nhấn <span class="keys"><kbd>Alt</kbd>+<kbd>F</kbd></span> (Windows, Linux) để mở trang Tập tin phủ toàn cửa sổ. Nhấn <span class="keys"><kbd>Esc</kbd></span> hoặc bấm <span class="menu">←</span> để quay lại tài liệu.</p>
+<ul>
+  <li><span class="menu">Trang chủ</span>: tạo tài liệu mới hoặc <span class="menu">Văn bản hành chính (NĐ 30)</span>, mở tệp <span class="menu">Gần đây</span> và <span class="menu">Đã ghim</span>. Bấm chuột phải vào một tệp để ghim hoặc xóa khỏi danh sách.</li>
+  <li><span class="menu">Mới</span>, <span class="menu">Mở</span>: chọn mẫu, tệp gần đây hoặc bấm <span class="menu">Duyệt…</span> để tìm tệp.</li>
+  <li><span class="menu">Thông tin</span>: thuộc tính, vị trí, kích thước và trạng thái chữ ký số của tài liệu.</li>
+  <li><span class="menu">Lưu thành</span>: chọn định dạng (.docx, .xlsx, .pptx đứng đầu) rồi chọn tên và thư mục.</li>
+  <li><span class="menu">Lưu</span>, <span class="menu">In</span>, <span class="menu">Xuất PDF</span>, <span class="menu">Ký số</span>, <span class="menu">Đóng</span>: thực hiện ngay lệnh tương ứng.</li>
+</ul>
+<p>Dùng phím mũi tên lên, xuống để di chuyển ở cột trái và <span class="keys"><kbd>Enter</kbd></span> để chọn. Nếu dùng thanh menu cổ điển, menu <span class="menu">Tập tin</span> vẫn hoạt động như cũ.</p>
 <h2 id="tim-tinh-nang">Tìm tính năng</h2>
 <p>Không nhớ một lệnh nằm ở thẻ nào? Mở ô <span class="menu">Tìm tính năng…</span> rồi gõ tên tính năng:</p>
 <ul>

diff --git a/website/office.hasontech.vn/huong-dan/van-ban-bang-hinh/index.html b/website/office.hasontech.vn/huong-dan/van-ban-bang-hinh/index.html
@@ -23,7 +23,7 @@
     })();
   </script>
   <title>Văn bản: bảng, hình ảnh, tìm kiếm – Hướng dẫn HST Office</title>
-  <meta name="description" content="Hộp thoại còn có Thay thế tất cả, So sánh hoa/thường và Chỉ tìm nguyên từ.">
+  <meta name="description" content="Đặt con trỏ trong bảng, rồi chọn Bảng → Thuộc tính…. Các thẻ xếp theo Word:">
   <meta name="robots" content="index, follow, max-image-preview:large, max-snippet:-1">
   <meta name="theme-color" content="#0B6FC1">
   <link rel="canonical" href="https://office.hasontech.vn/huong-dan/van-ban-bang-hinh/">
@@ -31,7 +31,7 @@
   <meta property="og:locale" content="vi_VN">
   <meta property="og:site_name" content="HST Office">
   <meta property="og:title" content="Văn bản: bảng, hình ảnh, tìm kiếm – Hướng dẫn HST Office">
-  <meta property="og:description" content="Hộp thoại còn có Thay thế tất cả, So sánh hoa/thường và Chỉ tìm nguyên từ.">
+  <meta property="og:description" content="Đặt con trỏ trong bảng, rồi chọn Bảng → Thuộc tính…. Các thẻ xếp theo Word:">
   <meta property="og:url" content="https://office.hasontech.vn/huong-dan/van-ban-bang-hinh/">
   <meta property="og:image" content="https://office.hasontech.vn/assets/img/og-hst-office.jpg?v=2">
   <meta name="twitter:card" content="summary_large_image">
@@ -52,10 +52,10 @@
    "@type": "TechArticle",
    "@id": "https://office.hasontech.vn/huong-dan/van-ban-bang-hinh/#article",
    "headline": "Văn bản: bảng, hình ảnh, tìm kiếm",
-   "description": "Hộp thoại còn có Thay thế tất cả, So sánh hoa/thường và Chỉ tìm nguyên từ.",
+   "description": "Đặt con trỏ trong bảng, rồi chọn Bảng → Thuộc tính…. Các thẻ xếp theo Word:",
    "inLanguage": "vi",
    "url": "https://office.hasontech.vn/huong-dan/van-ban-bang-hinh/",
-   "dateModified": "2026-11-04",
+   "dateModified": "2026-11-05",
    "about": {
     "@id": "https://office.hasontech.vn/#software"
    },
@@ -144,11 +144,30 @@
   <li>Đặt con trỏ tại vị trí cần chèn bảng.</li>
   <li>Chọn <span class="menu">Chèn → Chèn bảng…</span> hoặc nhấn <span class="keys"><kbd>Ctrl</kbd>+<kbd>F12</kbd></span>.</li>
 </ol>
+<h2>Thuộc tính bảng</h2>
+<p>Đặt con trỏ trong bảng, rồi chọn <span class="menu">Bảng → Thuộc tính…</span>. Các thẻ xếp theo Word:</p>
+<ul>
+  <li><span class="menu">Bảng</span>: chiều rộng, căn chỉnh và <span class="menu">Ngắt dòng văn bản</span>. Chọn <span class="menu">Xung quanh</span> để chữ chạy quanh bảng, <span class="menu">Vị trí…</span> để đặt chỗ cho bảng.</li>
+  <li><span class="menu">Hàng</span>: chiều cao của hàng đang chọn, cho phép ngắt hàng qua trang, lặp lại hàng tiêu đề. <span class="menu">Hàng Trước</span> và <span class="menu">Hàng Tiếp theo</span> chuyển sang hàng khác mà không đóng hộp thoại; mọi thay đổi chỉ áp dụng khi bấm <span class="menu">OK</span>.</li>
+  <li><span class="menu">Cột</span>: chiều rộng từng cột.</li>
+  <li><span class="menu">Ô</span>: chiều rộng ô đang chọn, căn dọc và lề ô.</li>
+  <li><span class="menu">Văn bản thay thế</span>: tiêu đề và mô tả cho người dùng bộ đọc màn hình. Nội dung này được giữ khi lưu tệp <code>.docx</code> và <code>.odt</code>.</li>
+</ul>
+<p><span class="menu">Viền</span>, <span class="menu">Tô bóng</span> và <span class="menu">Nâng cao</span> (ngắt trang, xẻ bảng qua trang, hướng văn bản) nằm ở cuối danh sách.</p>
+<div class="note">Đổi <span class="menu">Ngắt dòng văn bản</span> của bảng không hoàn tác được và xóa lịch sử Hoàn tác của tài liệu. HST Office hỏi lại trước khi làm.</div>
 <h2>Chèn hình ảnh</h2>
 <ol>
   <li>Đặt con trỏ tại vị trí cần chèn ảnh.</li>
   <li>Chọn <span class="menu">Chèn → Ảnh…</span>.</li>
 </ol>
+<h2>Vị trí và ngắt dòng quanh ảnh</h2>
+<p>Bấm đúp vào ảnh để mở hộp thoại ảnh. Ba thẻ đầu xếp như hộp thoại Bố trí của Word:</p>
+<ul>
+  <li><span class="menu">Vị trí</span>: điểm neo, vị trí ngang và dọc.</li>
+  <li><span class="menu">Ngắt dòng văn bản</span>: <span class="menu">Cùng dòng với văn bản</span>, <span class="menu">Vuông</span>, <span class="menu">Khít</span>, <span class="menu">Xuyên qua</span>, <span class="menu">Trên cùng và Dưới cùng</span>, <span class="menu">Sau văn bản</span>, <span class="menu">Trước văn bản</span>. Bên dưới là phía có chữ và khoảng cách từ văn bản.</li>
+  <li><span class="menu">Kích cỡ</span>: chiều rộng, chiều cao và khóa tỉ lệ.</li>
+</ul>
+<p>Văn bản thay thế nằm ở thẻ <span class="menu">Tùy chọn</span>. Khung văn bản và đối tượng dùng cùng các thẻ này.</p>
 <h2>Tìm và thay thế nội dung</h2>
 <ol>
   <li>Nhấn <span class="keys"><kbd>Ctrl</kbd>+<kbd>H</kbd></span> để mở <span class="menu">Tìm và thay thế</span>.</li>

diff --git a/website/office.hasontech.vn/huong-dan/cap-nhat/index.html b/website/office.hasontech.vn/huong-dan/cap-nhat/index.html
@@ -55,7 +55,7 @@
    "description": "HST Office tự kiểm tra khi có bản mới và báo cho bạn. Không có gì được tải về hay cài đặt nếu bạn chưa đồng ý.",
    "inLanguage": "vi",
    "url": "https://office.hasontech.vn/huong-dan/cap-nhat/",
-   "dateModified": "2026-11-04",
+   "dateModified": "2026-11-05",
    "about": {
     "@id": "https://office.hasontech.vn/#software"
    },
@@ -161,8 +161,11 @@
   <li>Tệp tải về được kiểm tra kích thước, mã SHA256 và chữ ký số. Nếu có gì không khớp, tệp không được cài và HST Office mời bạn bấm <span class="menu">Tải về</span> để tải thủ công.</li>
   <li>HST Office hỏi <span class="menu">Đã tải xong HST Office …. Đóng HST Office để cập nhật?</span> Chọn <span class="menu">Cập nhật ngay</span> để cài, hoặc <span class="menu">Để sau</span>. Với <span class="menu">Để sau</span>, tệp được giữ lại; lần sau bấm <span class="menu">Cập nhật ngay</span>, HST Office kiểm tra lại tệp rồi dùng luôn, không tải lại.</li>
   <li>HST Office đóng như khi bạn tự đóng: tài liệu chưa lưu sẽ được hỏi lưu. Nếu bạn bấm <span class="menu">Hủy</span> ở câu hỏi đó, việc cập nhật dừng lại.</li>
-  <li>Bộ cài kiểm tra tệp một lần nữa, cài bản mới rồi mở lại HST Office. Nếu cài không thành công, bản cũ vẫn dùng được và được mở lại.</li>
+  <li>Bộ cài kiểm tra tệp một lần nữa, cài bản mới rồi mở lại HST Office. Nếu cài không thành công, bản cũ vẫn dùng được và được mở lại, kèm thông báo.</li>
 </ol>
+<h3>Khi cài không thành công</h3>
+<p>Lần mở lại đó, HST Office hiện một lần thông báo <span class="menu">Chưa cài được HST Office …</span> cho biết lý do (máy không cấp quyền quản trị, bộ cài báo lỗi kèm mã lỗi, tệp không qua bước kiểm tra lần cuối…) và nơi lưu nhật ký <code>update.log</code>. Bạn có thể thử lại <span class="menu">Cập nhật ngay</span> sau, hoặc bấm <span class="menu">Tải về</span> để cài thủ công. Thông tin này chỉ nằm trên máy của bạn, không được gửi đi đâu.</p>
+<p>Nếu chính bạn từ chối (bấm <span class="menu">Hủy</span> ở hộp hỏi lưu, ở hộp hỏi mật khẩu hoặc câu hỏi cho phép của Windows), HST Office không báo gì: bản đang dùng vẫn như cũ.</p>
 <div class="table-wrap"><table><caption>Cách cài trên từng hệ điều hành</caption><thead><tr><th scope="col">Hệ điều hành</th><th scope="col">Điều bạn sẽ thấy</th></tr></thead><tbody>
 <tr><td>Windows</td><td>Windows hỏi bạn có cho phép thay đổi máy tính không (cần quyền quản trị). Sau đó cửa sổ cài đặt chạy tự động, không cần bấm thêm.</td></tr>
 <tr><td>macOS</td><td>Bản mới được kiểm tra chữ ký của HASON TECH rồi thay thế ứng dụng ở đúng chỗ đang cài; bản cũ chỉ bị xóa sau khi bản mới đã vào chỗ. Nếu thư mục ứng dụng cần quyền quản trị, máy hỏi mật khẩu.</td></tr>

diff --git a/website/office.hasontech.vn/huong-dan/lien-he/index.html b/website/office.hasontech.vn/huong-dan/lien-he/index.html
@@ -55,7 +55,7 @@
    "description": "HST Office do Công ty TNHH Công nghệ Hà Sơn (HASON TECH) phát triển và phát hành. Miễn phí vĩnh viễn.",
    "inLanguage": "vi",
    "url": "https://office.hasontech.vn/huong-dan/lien-he/",
-   "dateModified": "2026-11-04",
+   "dateModified": "2026-11-05",
    "about": {
     "@id": "https://office.hasontech.vn/#software"
    },
@@ -142,7 +142,7 @@
 <p class="lead">HST Office do Công ty TNHH Công nghệ Hà Sơn (HASON TECH) phát triển và phát hành. <strong>Miễn phí vĩnh viễn.</strong></p>
 <h2>Thông tin liên hệ</h2>
 <ul>
-  <li>Nhóm Facebook hỗ trợ người dùng HST Office: <a href="https://www.facebook.com/share/g/1TvVaU6q4V/" target="_blank" rel="noopener nofollow">tham gia nhóm</a>.</li>
+  <li>Nhóm Facebook hỗ trợ người dùng HST Office: <a href="https://www.facebook.com/share/g/1TvVaU6q4V/">tham gia nhóm</a>.</li>
   <li>Thư điện tử: <a href="mailto:lienhe@hasontech.vn">lienhe@hasontech.vn</a>.</li>
   <li>Điện thoại: (0236) 3.507.507.</li>
   <li>Địa chỉ: 300 Xô Viết Nghệ Tĩnh, phường Cẩm Lệ, TP. Đà Nẵng.</li>

diff --git a/website/office.hasontech.vn/huong-dan/kiem-tra-chinh-ta/index.html b/website/office.hasontech.vn/huong-dan/kiem-tra-chinh-ta/index.html
@@ -55,7 +55,7 @@
    "description": "HST Office được cài đặt với chế độ tự động kiểm tra chính tả tắt. Khi bạn gõ, các từ không bị gạch chân đỏ. Bạn có thể bật lại bất cứ lúc nào.",
    "inLanguage": "vi",
    "url": "https://office.hasontech.vn/huong-dan/kiem-tra-chinh-ta/",
-   "dateModified": "2026-11-04",
+   "dateModified": "2026-11-05",
    "about": {
     "@id": "https://office.hasontech.vn/#software"
    },

diff --git a/website/office.hasontech.vn/huong-dan/van-ban-soan-thao/index.html b/website/office.hasontech.vn/huong-dan/van-ban-soan-thao/index.html
@@ -55,7 +55,7 @@
    "description": "HST Writer dùng để soạn công văn, báo cáo và hợp đồng. Bạn có thể định dạng chữ, đoạn văn hoặc dùng kiểu đoạn để giữ cách trình bày thống nhất.",
    "inLanguage": "vi",
    "url": "https://office.hasontech.vn/huong-dan/van-ban-soan-thao/",
-   "dateModified": "2026-11-04",
+   "dateModified": "2026-11-05",
    "about": {
     "@id": "https://office.hasontech.vn/#software"
    },

diff --git a/website/office.hasontech.vn/huong-dan/meo-hay/index.html b/website/office.hasontech.vn/huong-dan/meo-hay/index.html
@@ -55,7 +55,7 @@
    "description": "Nếu tài liệu dùng phông .VnTime hoặc VNI-Times, hãy dùng HST → Chuyển TCVN3/VNI sang Unicode…. Bạn cần tự chọn bảng mã nguồn và xem trước kết quả. Xem các…",
    "inLanguage": "vi",
    "url": "https://office.hasontech.vn/huong-dan/meo-hay/",
-   "dateModified": "2026-11-04",
+   "dateModified": "2026-11-05",
    "about": {
     "@id": "https://office.hasontech.vn/#software"
    },

diff --git a/website/office.hasontech.vn/huong-dan/lam-viec-voi-pdf/index.html b/website/office.hasontech.vn/huong-dan/lam-viec-voi-pdf/index.html
@@ -55,7 +55,7 @@
    "description": "HST Office mở tệp PDF bằng HST PDF, trình xem PDF nhẹ và nhanh có nút Ký số; xuất văn bản, bảng tính, trình chiếu ra PDF; sửa nhẹ tệp PDF bằng HST Draw.",
    "inLanguage": "vi",
    "url": "https://office.hasontech.vn/huong-dan/lam-viec-voi-pdf/",
-   "dateModified": "2026-11-04",
+   "dateModified": "2026-11-05",
    "about": {
     "@id": "https://office.hasontech.vn/#software"
    },

diff --git a/website/office.hasontech.vn/huong-dan/ky-so-usb-token/index.html b/website/office.hasontech.vn/huong-dan/ky-so-usb-token/index.html
@@ -55,7 +55,7 @@
    "description": "HST Office ký số văn bản (.odt, .docx), bảng tính (.ods, .xlsx), trình chiếu (.odp, .pptx) và tệp PDF bằng chứng thư số lưu trên USB Token do tổ chức cung…",
    "inLanguage": "vi",
    "url": "https://office.hasontech.vn/huong-dan/ky-so-usb-token/",
-   "dateModified": "2026-11-04",
+   "dateModified": "2026-11-05",
    "about": {
     "@id": "https://office.hasontech.vn/#software"
    },
